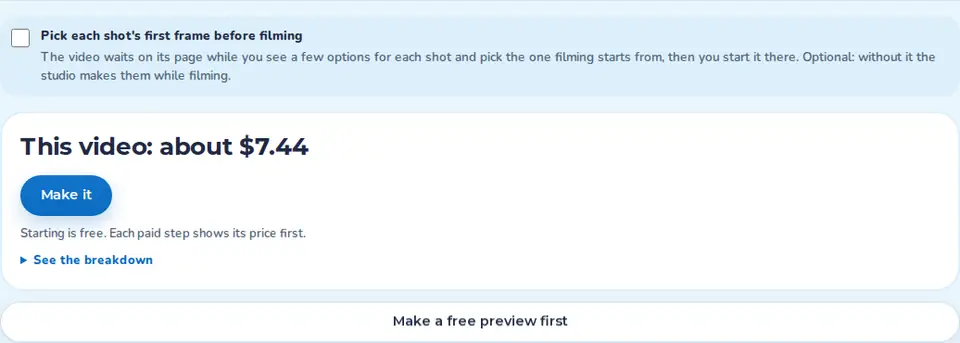
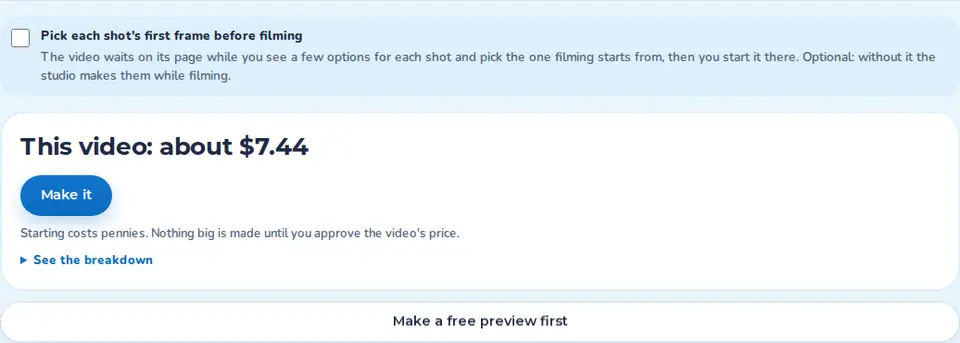
docs: honest start copy, the shot plan's price wait, approvedRequest, plain limit words and the phone fixes
Corrects the claims that a live start pays for nothing (it writes the
story first, for pennies) and that every paid step has an approved total.
Records the shot plan's approve button waiting for the price, the one
helper for approved totals, members' plain limit words, the sheet and tab
bar scroll padding, the dashboard at 320 px, and the new e2e checks and
redgreen 729. Recaptured the after screenshots whose words changed.

Changed region(s): [[0.0625, 0.6706, 0.5, 0.6997]]

diff --git a/docs/EASY-CHECKOUT.md b/docs/EASY-CHECKOUT.md
@@ -16,15 +16,18 @@ the price went up), never by changing the server.
 
 These are the money safety rules. The plan only changes how they are shown.
 
-- **Every paid step has an estimate and an approved total.** The price on screen only ever comes from
-  the API's estimate. Pressing the button sends that estimate as the approved total. When the server
-  prices the job again at make time and the price is higher, it refuses (409) and nothing is paid.
-  With no estimate, there is nothing to approve and the button stays off.
+- **The estimates and approved totals stay as they are.** The price on screen only ever comes from the
+  API's estimate. Where the server takes an approved total (character sheets, first frames, the mood
+  board, a picture redo), pressing the button sends that estimate as the approved total. When the
+  server prices the job again at make time and the price is higher, it refuses (409) and nothing is
+  paid. With no estimate, there is nothing to approve and the button stays off.
 - **The balance gate stays** (a fresh balance, the floor, GC.01). So do reserves, the job ledger and the
   owner checks. The web never sends `override_unavailable_estimates`, and the flag's name never shows up
   on a screen. Before this change it did: see "Shot plan" below.
-- **A live run pays for nothing before its shot plan is approved.** That approval (G1) also gives the
-  credit plan approval (G1.08). In a live run, G1 is refused when the provider estimates are unavailable.
+- **A live run makes no pictures or clips before its shot plan is approved.** Before that it only writes
+  its story (a few text calls, pennies). That approval (G1) also gives the credit plan approval (G1.08),
+  and the run's spending stays capped by its budget lines. In a live run, G1 is refused when the
+  provider estimates are unavailable.
 - **The admin costs page (`/dashboard`) keeps its full detail.**
 
 ## Before: every place a user met money or an approval
@@ -35,7 +38,7 @@ These are the money safety rules. The plan only changes how they are shown.
 | 2 | Wizard review, overview | "Estimated cost: $7.44" | The first of three prices on one screen |
 | 3 | Wizard review, shot list | Every shot says "5s · kling" | Model names |
 | 4 | Wizard review, checkout | "Choose how to proceed:", a lime "Make My Video (uses credits) $7.44", a blue "Preview Only (free test run)" and "Live mode uses real credits and charges you. Preview mode is always free." | Two big buttons fighting each other; "credits" and "live mode" jargon |
-| 5 | Wizard confirm dialog | "Confirm Live Production", "This will start a live production run that uses real credits and charges you.", a yellow box "Estimated cost: $7.44. This is an estimate. Actual cost may vary based on retries and model usage.", "Confirm & Start" | A second approval in a row, even though starting a live run pays for nothing. The money is approved later, at the shot plan |
+| 5 | Wizard confirm dialog | "Confirm Live Production", "This will start a live production run that uses real credits and charges you.", a yellow box "Estimated cost: $7.44. This is an estimate. Actual cost may vary based on retries and model usage.", "Confirm & Start" | A second approval in a row, for a start that only pays for writing the story (pennies). The pictures and clips are approved later, at the shot plan |
 | 6 | Episode page, start card (`StartCard`) | A yellow-ringed "Price" block with a "Test run" chip, "Free" in big type, "Pictures and clips: Free stand-ins", "It starts as a free test run: no credits are used.", a checklist ("Free test run"), "Start the video", "Nothing is charged in a test run." | The same fact ("free") four times. In a live run, the price of the video is never shown here |
 | 7 | Next step card (`NextStepCard.tsx`) | The "Your OK needed" chip, a table with "This run: Live: paid providers" and "Spent on this episode so far: $0.00", the fine print "Every paid step shows its price first, and the studio checks it and your balance again before it spends." | Ledger words on every screen, with or without a decision to make |
 | 8 | Step trail (`Stepper`) | Yellow "$" coins on Cast, Scene pictures and Final cut, with "Free test run" or "Priced first" under each, and each step's cost once it is done | Coin badges and the cost breakdown are on show all the time |
@@ -157,10 +160,10 @@ The override flag's name is never shown, and the web still never sends it.
 | # | Moment | After |
 |---|---|---|
 | 1 | Wizard trail | No coin. The note under "Review & start" says "See the price". |
-| 2, 4, 5 | Wizard review, checkout and confirm dialog | One checkout at the bottom: "This video: about $7.44" with "Make it", and a quiet "Make a free preview first". When live is not available: "This video: free preview" with "Make a free preview". The confirm dialog is gone. Starting a live run pays for nothing; the video is paid for when its shot plan is approved, and the price is shown again there. The breakdown lists scene pictures and clips, and says the price is the list price for one try of each (a redo is priced on its own). The overview no longer repeats the price. |
+| 2, 4, 5 | Wizard review, checkout and confirm dialog | One checkout at the bottom: "This video: about $7.44" with "Make it", and a quiet "Make a free preview first". When live is not available: "This video: free preview" with "Make a free preview". The confirm dialog is gone. Starting a live run only pays for writing its story (pennies); its pictures and clips wait for the shot plan's approval, and the price is shown again there. The breakdown lists scene pictures and clips, and says the price is the list price for one try of each (a redo is priced on its own). The overview no longer repeats the price. |
 | 3, 14 | Shot lists (wizard and shot plan) | No model names: "5 s" only. |
 | 6 | Start card | The checkout: "This video: about $7.44" (live, from the episode's own preflight estimate) or "This video: free test run", then "Start the video". The checklist only lists the looks still to lock, when there are any. |
-| 7 | Next step card | No table and no fine print. One quiet line: "Test run: nothing is charged." or "Live: each paid step shows its price first.", plus "Spent so far: $3.20" once a live run has spent something. The chip says "Your turn". |
+| 7 | Next step card | No table and no fine print. One quiet line: "Test run: nothing is charged." or "Live: pictures and clips show their price first.", plus "Spent so far: $3.20" once a live run has spent something. The chip says "Your turn". |
 | 8 | Step trail | No coins. Each step says only "Done", "Now", "Skipped" or "Stopped here". The cost of each step moves into "What it cost", behind "See the breakdown", with the same honesty rules: a paid step says "Free" only for a recorded $0 in a test run, and "Not recorded" when nothing is on record. |
 | 9 | Character sheet | The checkout: "3 options: about $0.12" with "Make 3 options", and the same for the turnaround. Approving says "Approve and lock this look" (no change). |
 | 10 to 12 | First frames | The checkout: "3 options: about $0.09" with "Make 3 options" and "Not now". The price going up gets the re-ask above, and other money refusals get calm words. |
@@ -209,16 +212,16 @@ button, an optional quiet "Not now", one calm line, and "See the breakdown" (clo
 | # | Moment | The words on screen now |
 |---|---|---|
 | 1 | Wizard trail | "Review & start", with "See the price" under it. No coin. |
-| 2 to 5 | Wizard checkout | Live: "This video: about $7.44", "Make it", "Starting is free. Each paid step shows its price first.", and a quiet "Make a free preview first" under the card. Live off: "This video: free", "Make a free preview", "Live videos are off right now, so this is a free test run." The breakdown: scene pictures and clips, and "The list price for one try of each picture and clip. A redo is priced on its own." No confirm dialog, no price in the overview. |
+| 2 to 5 | Wizard checkout | Live: "This video: about $7.44", "Make it", "Starting costs pennies. Nothing big is made until you approve the video's price.", and a quiet "Make a free preview first" under the card. Live off: "This video: free", "Make a free preview", "Live videos are off right now, so this is a free test run." The breakdown: scene pictures and clips, and "The list price for one try of each picture and clip. A redo is priced on its own." No confirm dialog, no price in the overview. |
 | 3, 14 | Shot lists | "5 s". No model names. |
-| 6 | Start card | "This video: about $7.44" (live) or "This video: free" (test run), "Start the video", and one line: "Starting is free. Each paid step shows its price first." or "A test run, so nothing is charged." |
-| 7 | Next step card | The chip "Your turn", the step, "Show me", and one quiet line: "Every paid step shows its price first. Spent so far: $0." in a live run, "A test run, so nothing is charged." in a test run. |
+| 6 | Start card | "This video: about $7.44" (live) or "This video: free" (test run), "Start the video", and one line: "Starting costs pennies. Nothing big is made until you approve the video's price." or "A test run, so nothing is charged." |
+| 7 | Next step card | The chip "Your turn", the step, "Show me", and one quiet line: "Pictures and clips show their price first. Spent so far: $0." in a live run, "A test run, so nothing is charged." in a test run. |
 | 8 | Step trail | Only "Now", "Done", "Skipped" or "Stopped here" under each step. |
 | 9 | Character sheet | "3 pictures: about $0.12", "Make the options", "Not now", and "If the price goes up before we make it, we ask you first." The turnaround is the same with "Make the turnaround". |
 | 10 | First frames | "3 options: about $0.09", "Make 3 options", "Not now", the same promise. The breakdown: "3 options: $0.03 each" and "Left in the budget for first frames: $1.60". |
 | 11 | The price went up | The headline loses its old price ("3 options"), and a calm blue box says "The price went up to $0.12 since you looked. Nothing was charged." with one button, "See the new price". The old breakdown is hidden too. One press shows the new checkout; one more press makes it at the new price. |
 | 12 | Balance refusal | "The studio's balance is too low for this right now. Nothing was charged. An admin can top it up." with "Try again". No provider name, no "floor". |
-| 14 | Shot plan (G1) | Live: "This video: about $7.44", "Approve the shot plan", "This starts the scene pictures. The clips wait for your OK on them." Without today's prices: "This video" (no price), the button off, and "We couldn't get today's prices for this video, so it can't be approved yet. Try again in a few minutes." Test run: "This video: free". The override flag is never shown. |
+| 14 | Shot plan (G1) | Live: "This video: about $7.44", "Approve the shot plan", "This starts the scene pictures. The clips wait for your OK on them." Until the price is on screen the button is off: "Turns on once the price is on screen." while it loads, and "We couldn't get this video's price, so it can't be approved yet." with "Try again" when it can't be read. Without today's prices: "This video" (no price), the button off, and "We couldn't get today's prices for this video, so it can't be approved yet. Try again in a few minutes." Test run: "This video: free". Saving a change to the plan says "Saved changes are checked again, and priced again, before you approve the plan." and loads the price again. The override flag is never shown. |
 | 15 | Picture redo | "1 new picture: about $0.04", the note ("Your note goes with it: ..."), "Make it again", "Not now", the promise, and the same re-ask when the price goes up. |
 | 15b | Clip redo | "Redo this clip" with the clip's list price next to it ("about $1.20", or "free" in a test run). No promise, because the server has no approved total for a clip redo. |
 | 17 | What it cost | "What it cost", then "$4.24" (or "Free" for a test run, "Not recorded" when nothing is on record), and "See the breakdown" with each step's cost. |
@@ -226,7 +229,7 @@ button, an optional quiet "Not now", one calm line, and "See the breakdown" (clo
 | 19 | Mood board approved | The chip "Board 1 approved". No stamp. |
 | 20 | Locks | "Lock each look", and the chips "Look locked" or "Not locked yet". No seals. |
 | 22 | Production details | The budget and model limits cards are for admins only. |
-| 23 | Admin costs page | Unchanged. |
+| 23 | Admin costs page | Unchanged, except that its header wraps on a 320 px phone instead of scrolling sideways. |
 
 ### Where the build differs from the plan
 
@@ -239,9 +242,28 @@ button, an optional quiet "Not now", one calm line, and "See the breakdown" (clo
   read as the current one.
 - **Headlines:** "Your mood board: about $1.56" (not "Mood board: ..."), "3 pictures: ..." on character
   sheets, and "This video: free" (not "free preview") when live videos are off.
-- **The start card and the wizard** say "Starting is free. Each paid step shows its price first." in a
-  live run. The promise "we ask you first" is kept for the four places where the server checks the
-  approved total again (character sheets, first frames, the mood board, a picture redo).
+- **The start card and the wizard** say "Starting costs pennies. Nothing big is made until you approve
+  the video's price." in a live run: a live start writes the story first (a few text calls), and its
+  pictures and clips wait for the shot plan, where the price is shown. The promise "we ask you first"
+  is kept for the four places where the server checks the approved total again (character sheets,
+  first frames, the mood board, a picture redo). The wizard, the start card and the shot plan send no
+  approved total, so they show their own line instead (`promise(price, { kept: false, otherwise })`).
+- **One way to send an approved total.** The four make-it buttons build their request with
+  `approvedRequest` (`web/lib/checkout.mjs`), which sends the price on the card (`quote().approve`)
+  and refuses to build a request with no price.
+- **A live shot plan's approve button waits for the price.** The price comes from the episode's
+  preflight; while it loads, or when it can't be read, the button is off with a calm reason (and
+  "Try again" when it failed). A saved change to the plan loads the price again.
+- **The shot plan's limits are in plain words:** "a shot asks for more than the studio can make",
+  never "model limits". When a save breaks a limit, a member reads which shots to change ("Try a
+  shorter prompt or fewer picks, or ask an admin what to change."). The checks' own words name the
+  models and where a limit comes from, so only admins see them, there and in the shot list under
+  Production details.
+- **On a phone, nothing pinned to the bottom hides a price.** The episode's next-step sheet and the
+  tab bar are pinned over the bottom of the screen, so the page's scroll padding matches them: a
+  focused button or a linked section stops above them. A price card opened by a tap (a picture redo,
+  first frames, a character sheet, the mood board) scrolls itself fully into view. The admin costs
+  page's header wraps at 320 px instead of scrolling sideways.
 
 ### Before and after
 
@@ -347,23 +369,31 @@ standing alone as a badge, and on any seal, stamp, coin or price-ring style comi
 ## Tests
 
 - Unit (`web/lib/checkout.test.mjs`, also run by `tests/test_web_episode_views.py`): the headline, the
-  promise, the breakdown rows, the money-problem translator (every server refusal above, and that it
-  never shows the override flag), and the copy rules on every string.
+  promise and the start and shot plan lines that replace it, the approved total each make-it button
+  sends (and that none is built without a price), the breakdown rows, the money-problem translator
+  (every server refusal above, and that it never shows the override flag), and the copy rules on every
+  string.
 - The existing unit and e2e tests that asserted the old words now assert the new ones. None are removed
   or skipped.
 - New e2e (`web/tests/easy-checkout-e2e.spec.ts`, in CI), against the dry-run backend (no real
   generation):
   - a video: see the price, open the breakdown, and one press of "Make it" starts it, with no dialog,
     no model names and no override flag sent;
-  - a live shot plan: no price and no approval without today's prices, then the price, the breakdown
-    and one approval;
+  - a live shot plan: no price and no approval without today's prices; the button stays off while the
+    price loads and when it can't be read (then "Try again" brings it); then the price, the breakdown
+    and one approval. At 390 px, the approve button reached by keyboard while the sheet covers it
+    comes up above the sheet;
   - a live mood board: the price went up between looking and pressing, so nothing is made, the old
     price and its breakdown are gone, and one press shows the new price, which is the approved total
     sent with the next press.
-- Red-green mutations 722 to 728 (`scripts/redgreen.sh`): the approved total is the price shown, only a
-  test run is free, a price that went up asks again (both server wordings), the estimates override is
-  never shown, the promise only where the server keeps it, an unpriced clip makes the price "at least",
-  and "override" stays a ledger word.
+- The app pages e2e also opens the admin costs page at 320 px and checks it does not scroll sideways.
+- Red-green mutations 722 to 728 (`scripts/redgreen.sh`): every make-it button sends the price shown
+  as its approved total (`approvedRequest`, through `quote().approve`), only a test run is free, a
+  price that went up asks again (both server wordings), the estimates override is never shown, the
+  promise only where the server keeps it (the wizard, the start card and the shot plan pass
+  `kept: false` and show their own line), an unpriced clip makes the price "at least", and "override"
+  stays a ledger word. Mutation 729: a member's shot plan save line names the shots, never the models.
+  Mutation 669 (the mood board breakdown's budget row) follows the breakdown's new code.
 
 ## Decisions for the owner
 
@@ -376,8 +406,9 @@ standing alone as a badge, and on any seal, stamp, coin or price-ring style comi
    without retries. It is shown as "about $X". Is that the price you want users to see, or should the
    headline add a margin for retries?
 4. **No confirm dialog before a live run.** "Make it" now starts a live run in one press, because
-   starting pays for nothing and the shot plan approval (with the price) is the real approval. Keep it
-   that way?
+   starting only pays for writing the story (a few text calls, pennies) and the shot plan approval
+   (with the price) is where the pictures and clips are approved. Keep it that way, or price the story
+   writing too?
 5. **Budget and model limits cards are admin-only** on the episode page. Is anyone else relying on them?
 6. **Production details** (collapsed, at the bottom of the episode page) still shows the owner the
    live-mode switch, with its typed "ENABLE LIVE MODE" confirmation in a red box, and the run's credit
